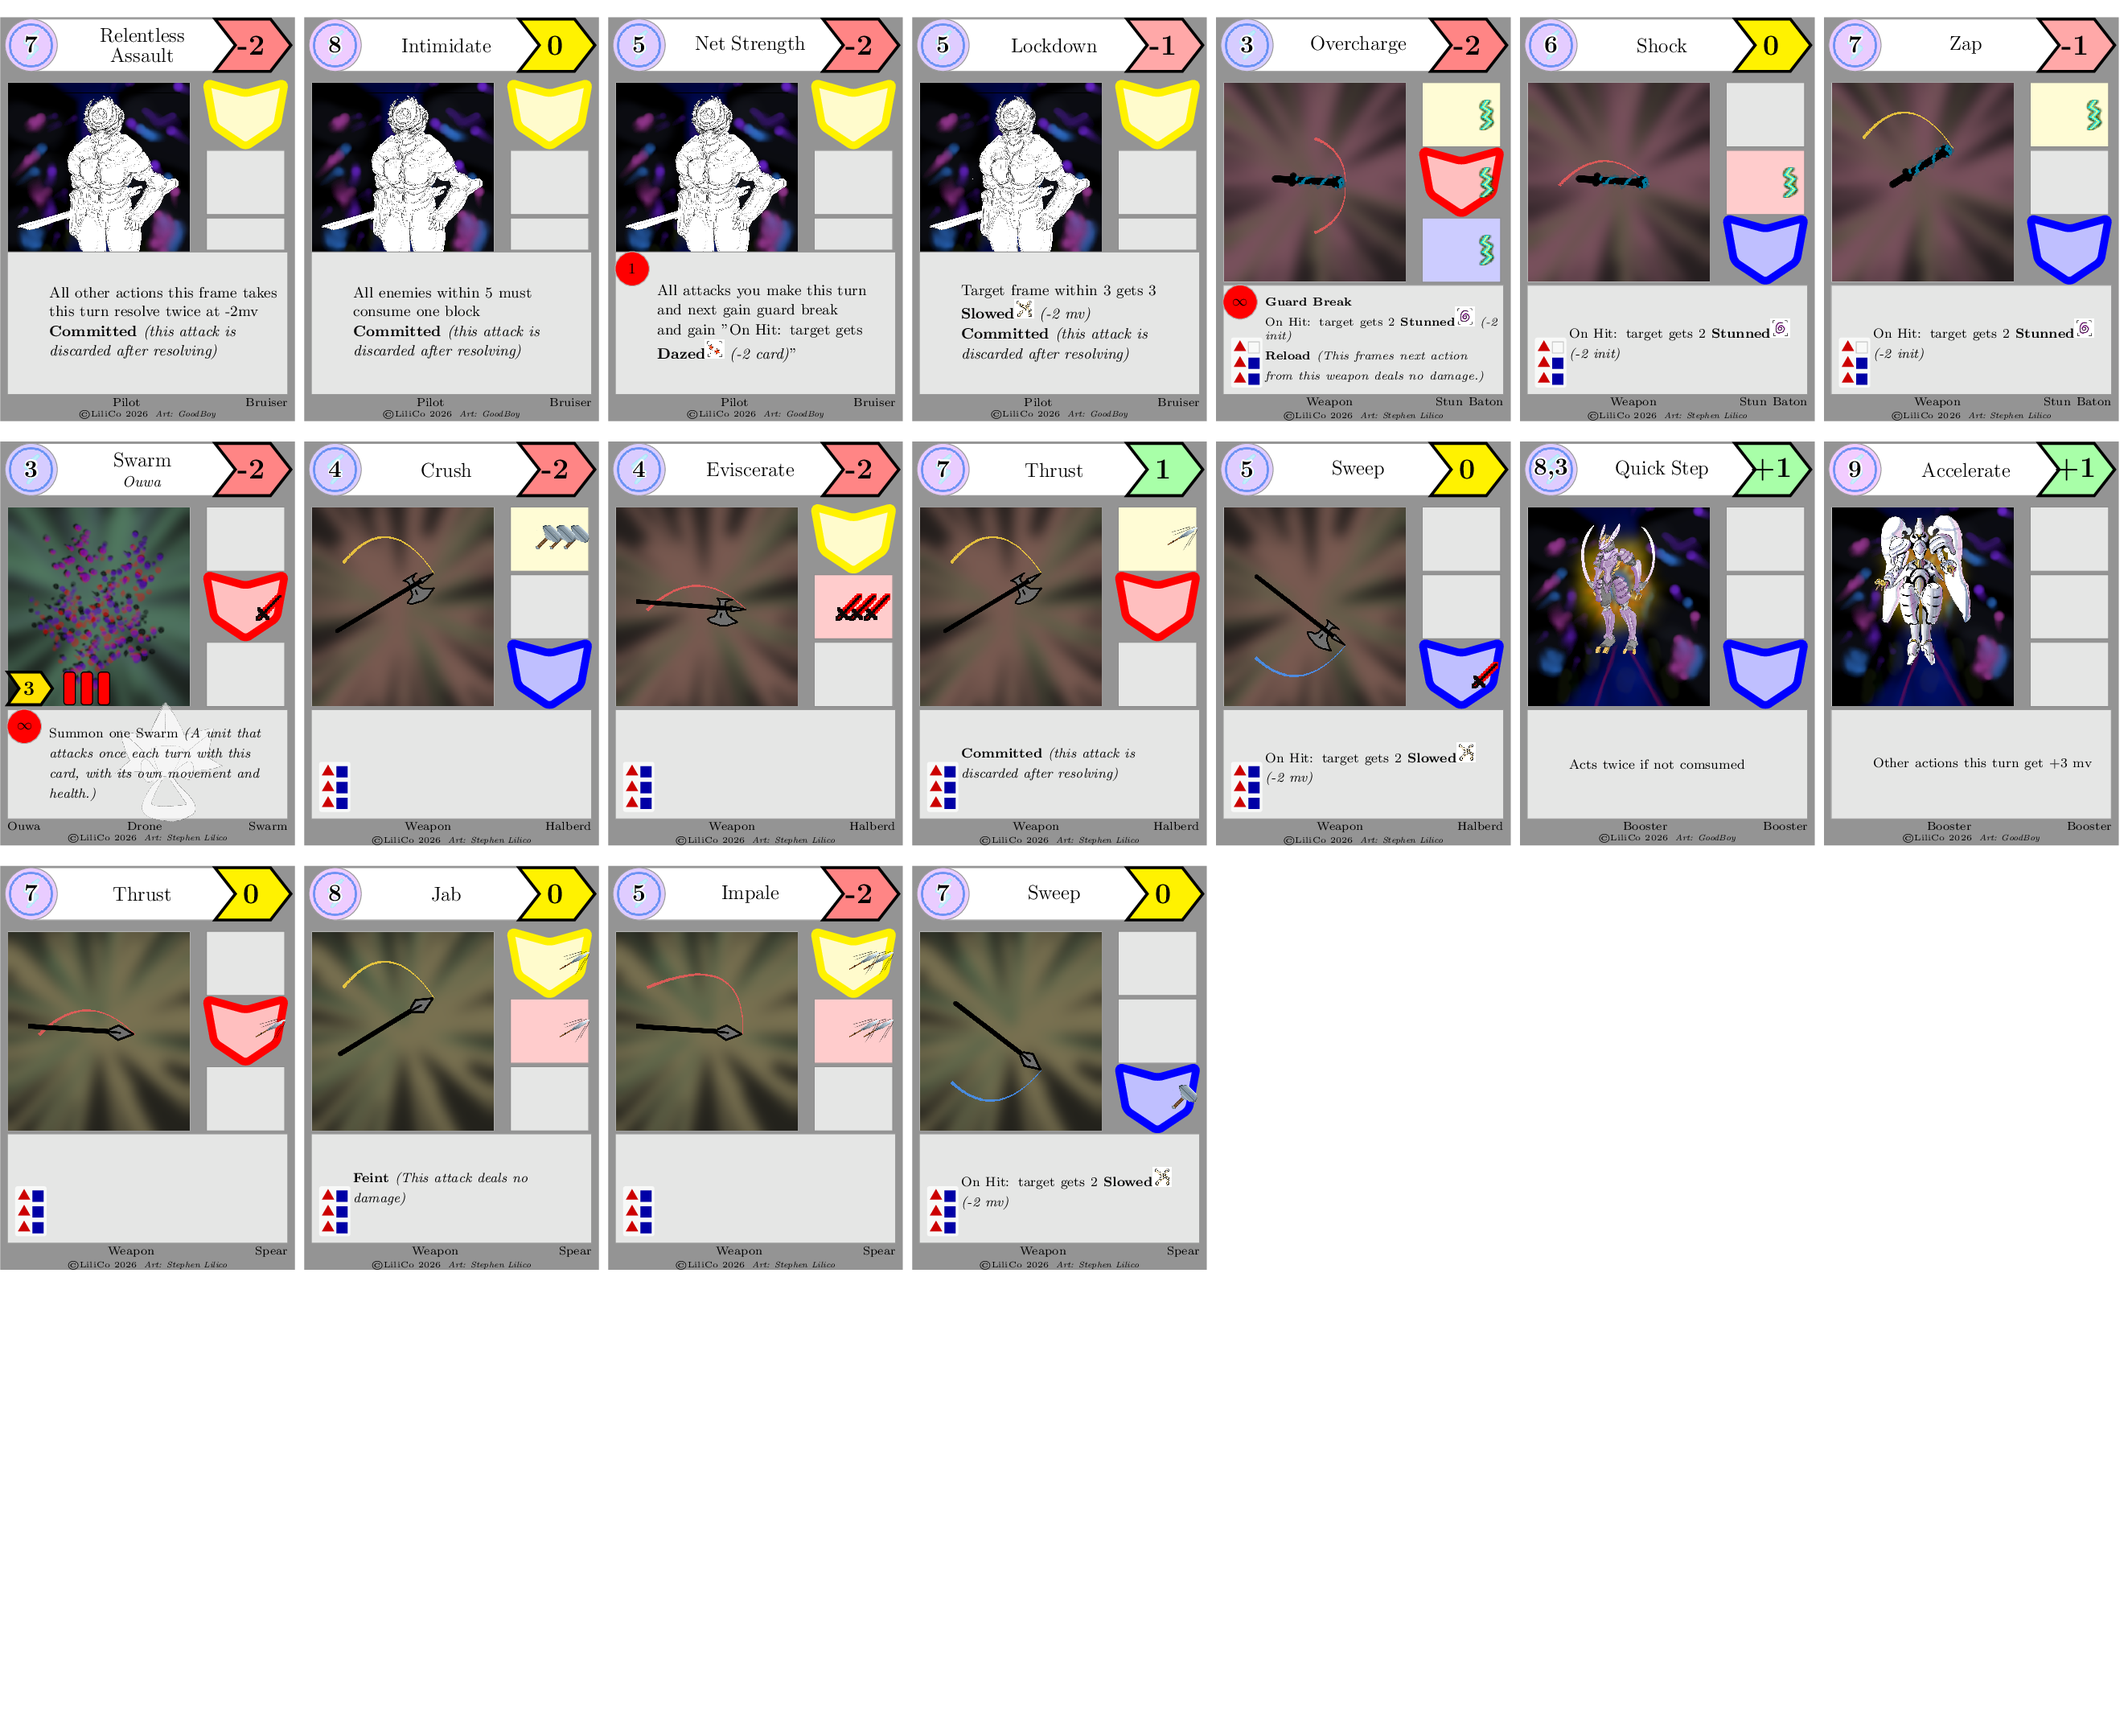
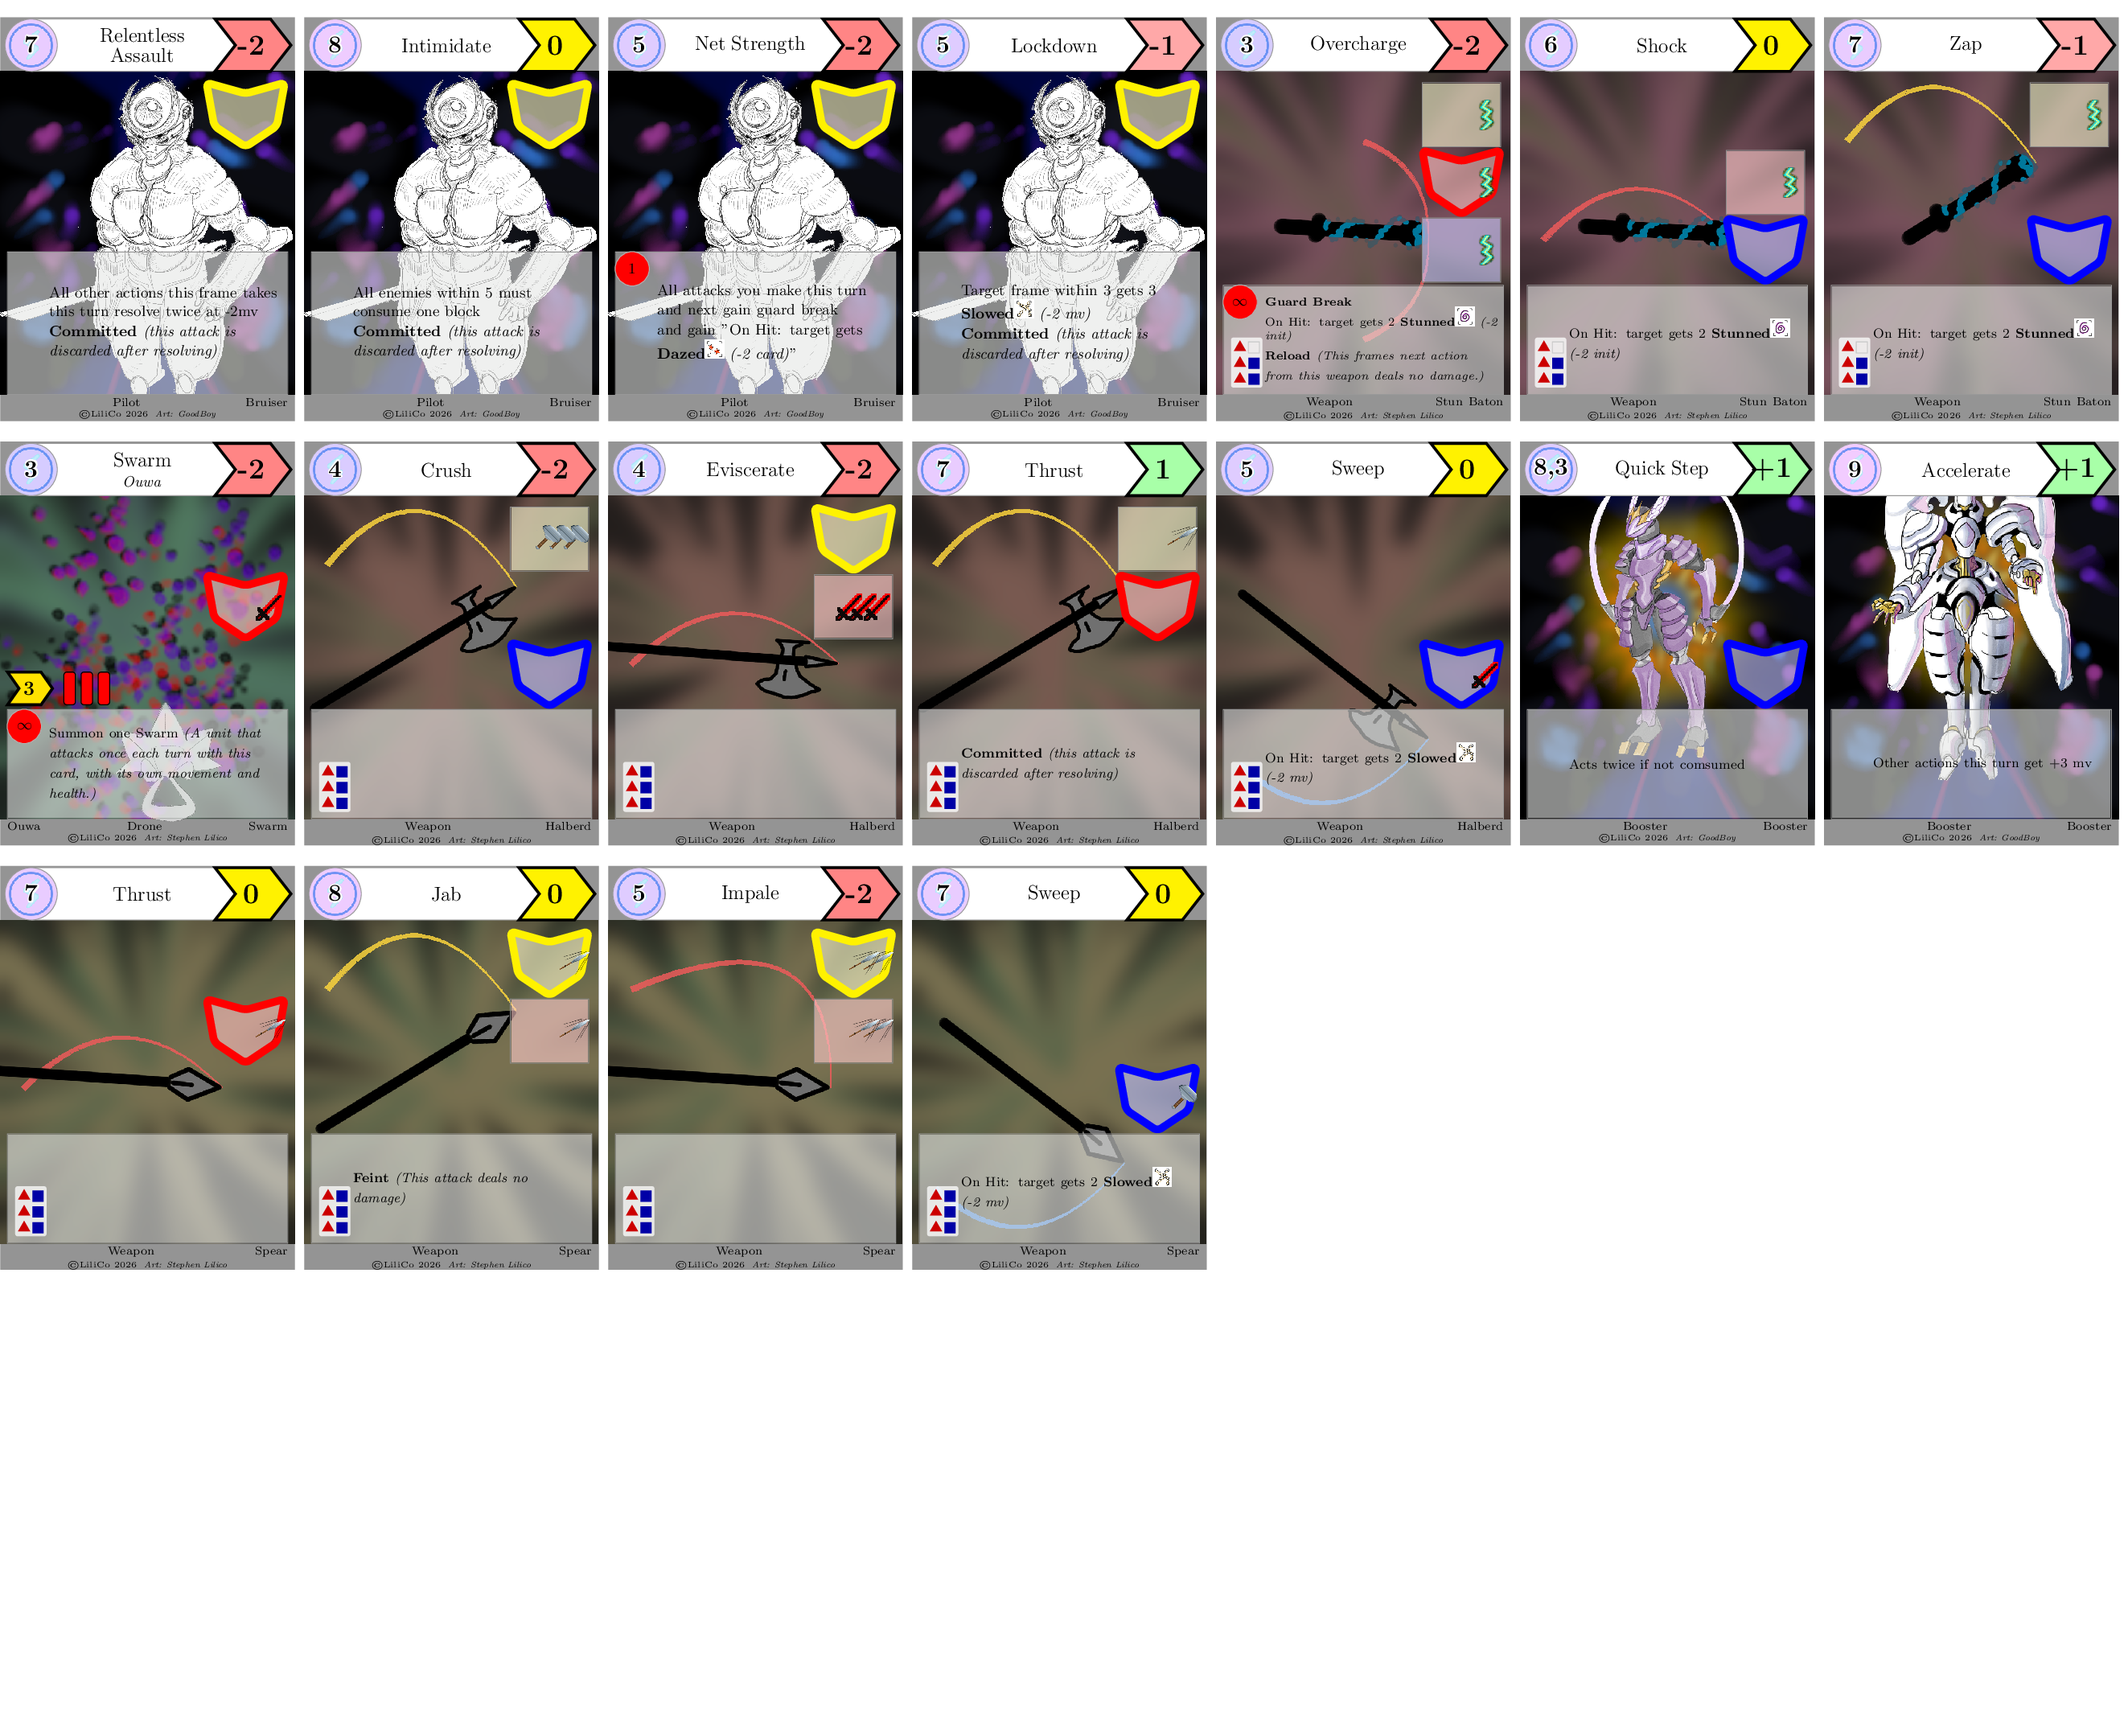
Add full-art layout variant (art behind translucent boxes)
Experimental visual variant on the full-art-test branch:
- Card art now spans from just below the name plate down to the
  bottom of the rules text, at full card width, with the zone boxes
  and rules box drawn over it.
- Rules box and attack/block zone boxes render at 60% fill opacity so
  the art reads through them; icons, numbers, text and outlines stay
  fully opaque.
- Empty zones (no attack and no block) draw no box at all.

Regenerated all card, rules-reference and TTS deck/frame images.

diff --git a/generateCards.py b/generateCards.py
@@ -247,7 +247,7 @@ def createMacros():
             "\n\\newcommand{\\blockshieldpath}[4]{"
             "(#1-#3,#2+#4) -- (#1,#2+0.66*#4) -- (#1+#3,#2+#4) -- "
             "(#1+0.8*#3,#2-0.35*#4) -- (#1,#2-#4) -- (#1-0.8*#3,#2-0.35*#4) -- cycle}\n"
-            "\\newcommand{\\blockshieldfill}[5]{\\fill[#3!25, rounded corners=0.08cm] "
+            "\\newcommand{\\blockshieldfill}[5]{\\fill[#3!25, fill opacity=0.6, rounded corners=0.08cm] "
             "\\blockshieldpath{#1}{#2}{#4}{#5};}\n"
             "\\newcommand{\\blockshieldline}[5]{\\draw[draw=#3, line width=4.5pt, "
             "rounded corners=0.1cm] \\blockshieldpath{#1}{#2}{#4}{#5};}\n"
@@ -450,6 +450,9 @@ def attack_box(atk, rng, block, cy, dmg_type, color, cx=ZONE_CX,
     of the box filling in from the right; the range indicator (a 90-degree
     rotated icon plus its number) sits at the left of the box."""
     out_text = ""
+    # an empty zone (no attack and no block) gets no box drawn at all
+    if not atk and not block:
+        return out_text
     w_cm = half_w * 2 * card_scale
     h_cm = half_h * 2 * card_scale
 
@@ -457,7 +460,7 @@ def attack_box(atk, rng, block, cy, dmg_type, color, cx=ZONE_CX,
         out_text += block_shield_outline(cx, cy, color, half_w, half_h, super_block=block > 1)
     else:
         fill = f"{color}!20" if atk else "black!10!white"
-        out_text += (f"\\node[rectangle, draw=black!45, fill={fill}, rounded corners={rc()}, "
+        out_text += (f"\\node[rectangle, draw=black!45, fill={fill}, fill opacity=0.6, rounded corners={rc()}, "
                      f"minimum width={w_cm:.3f}cm, minimum height={h_cm:.3f}cm] at ({cx}, {cy}){{}};\n")
 
     # attack icons: vertical middle, filling in from the right edge leftwards,
@@ -765,20 +768,27 @@ def make_card_from_row(row, card_type, group_capability=None, annotate=False, an
             card_text += "\\useasboundingbox (cardbg.south west) rectangle (cardbg.north east);\n"
             card_text += "\\clip (cardbg.south west) rectangle (cardbg.north east);\n"
 
-        # --- art zone: art constrained to its own box (left of the zones) -----
-        card_text += (f"\\node (artbox)[rectangle, fill=white, draw=black!40, rounded corners={rc()}, "
-                      f"minimum width={ART_W_CM}cm, minimum height={ART_H_CM}cm] at ({ART_CX}, {ART_CY}){{}};\n")
+        # --- full-card art: spans from just below the name plate down to the
+        # bottom of the rules text and the full width of the card. The zone
+        # boxes and rules box are drawn over it (at reduced opacity) so the art
+        # shows through behind them.
+        art_top_y = NAME_CY - (NAME_H_CM / 2) / card_scale
+        art_bot_y = RULES_BOTTOM
+        art_cy_full = (art_top_y + art_bot_y) / 2
+        card_left = 4 - (6.2 / card_scale) / 2
+        card_right = 4 + (6.2 / card_scale) / 2
         card_text += "\\begin{scope}\n"
-        card_text += f"\\clip[rounded corners={rc()}] ($(artbox.south west)+(0.03,0.03)$) rectangle ($(artbox.north east)+(-0.03,-0.03)$);\n"
-        # background layer scaled to fill the whole art zone (clipped by the scope)
+        card_text += (f"\\clip ({card_left:.3f}, {art_bot_y:.3f}) rectangle "
+                      f"({card_right:.3f}, {art_top_y:.3f});\n")
+        # background layer scaled to fill the whole card width (clipped by the scope)
         if row.get("BackgroundLayer"):
-            card_text += (f'\\node at ({ART_CX},{ART_CY}){{\\includegraphics[width={ART_W_CM}cm,'
+            card_text += (f'\\node at (4,{art_cy_full:.3f}){{\\includegraphics[width=6.2cm,'
                           ' keepaspectratio]{' + images_folder + row["BackgroundLayer"] + '}};\n')
-        # the art itself is fitted inside the zone (never cropped or stretched)
-        card_text += (f'\\node at ({ART_CX},{ART_CY}){{\\includegraphics[width={ART_W_CM - 0.1:.2f}cm, max height={ART_H_CM - 0.1:.2f}cm,'
+        # the art itself fills the full card width, cropped to the art region
+        card_text += (f'\\node at (4,{art_cy_full:.3f}){{\\includegraphics[width=6.2cm,'
                       ' keepaspectratio]{' + images_folder + row["CardImg"] + '}};\n')
         if row.get("ForegroundImg"):
-            card_text += (f'\\node at ({ART_CX},{ART_CY}){{\\includegraphics[width={ART_W_CM - 0.1:.2f}cm, max height={ART_H_CM - 0.1:.2f}cm,'
+            card_text += (f'\\node at (4,{art_cy_full:.3f}){{\\includegraphics[width=6.2cm,'
                           ' keepaspectratio]{' + images_folder + row["ForegroundImg"] + '}};\n')
         card_text += "\\end{scope}\n"
 
@@ -837,7 +847,7 @@ def make_card_from_row(row, card_type, group_capability=None, annotate=False, an
             # weapons/drones share the bottom band with the zone column above, so
             # the box height is capped; a smaller font keeps busy cards inside it
             text_font = "\\scriptsize" if estimated_text_len(row["Text"]) > 100 else "\\footnotesize"
-        card_text += (f"\\node (rulesbox)[anchor=south, rectangle, fill=black!10!white, draw=black!40, rounded corners={rc()}, "
+        card_text += (f"\\node (rulesbox)[anchor=south, rectangle, fill=black!10!white, fill opacity=0.6, draw=black!40, rounded corners={rc()}, "
                       f"minimum width={RULES_W_CM}cm, minimum height={rules_h}cm] at (4.0, {RULES_BOTTOM}){{}};\n")
 
         # faction logo watermark sits above the box fill but behind the text
